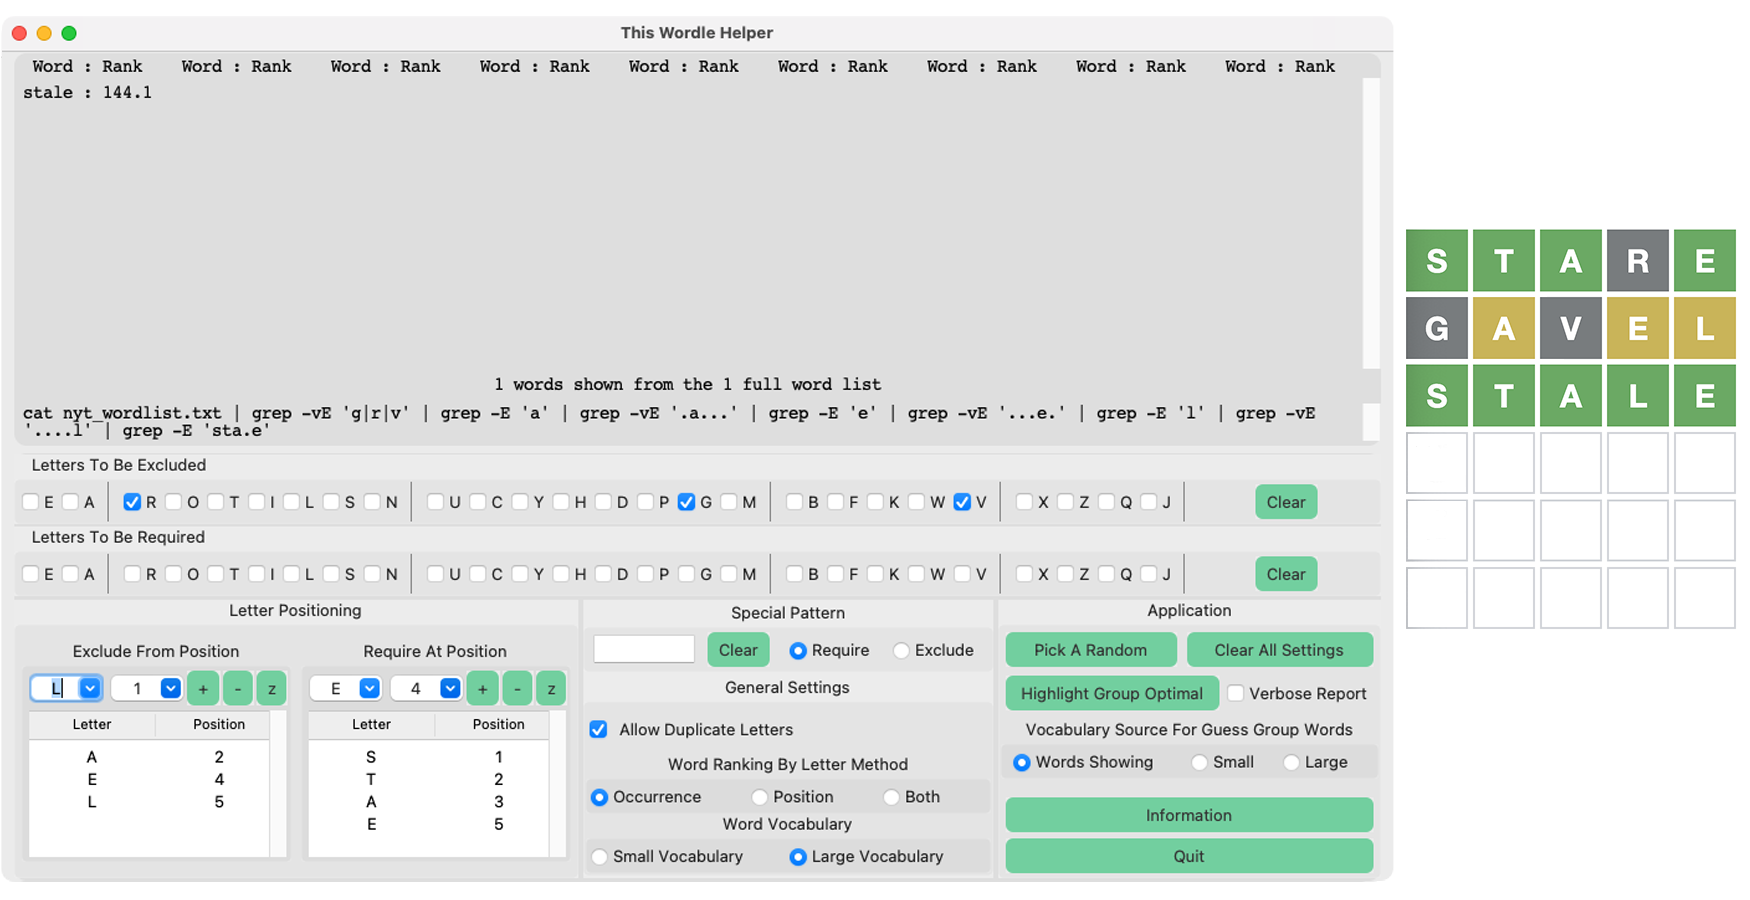
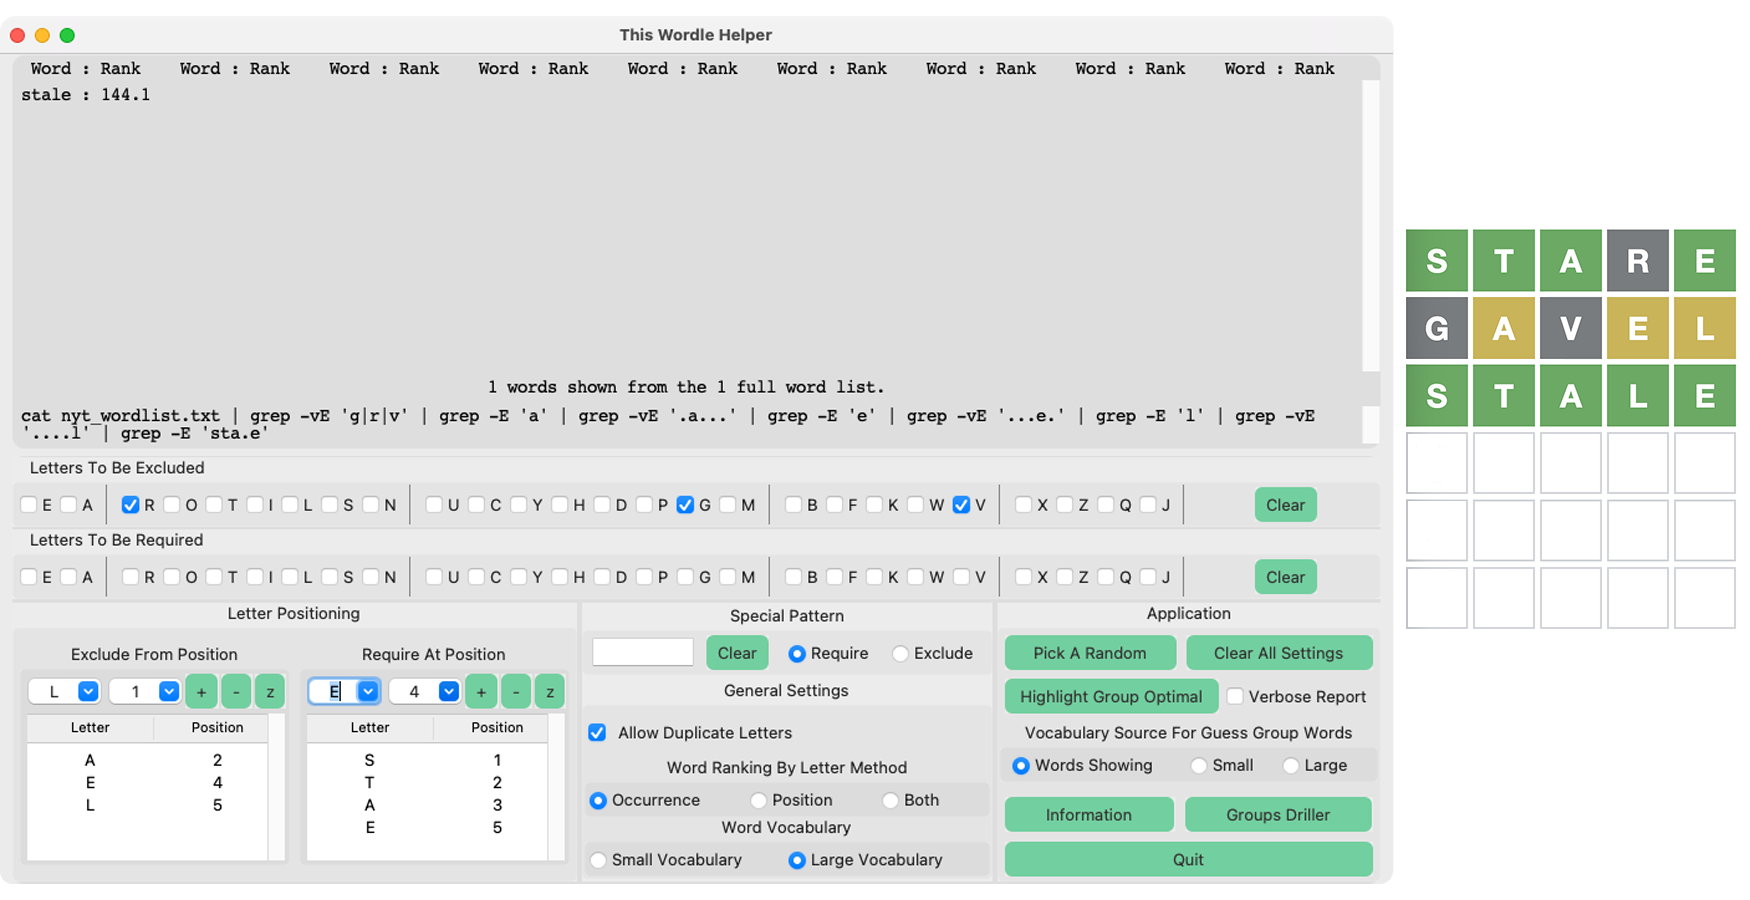
Integrating the groups driller (#13)

diff --git a/groupdrilling.py b/groupdrilling.py
@@ -23,10 +23,12 @@ def process_grp_list(self, g_word_lst: list) -> dict:
     # This is allows the option to group rank from the entire guess list.
     grps_guess_source = self.grps_guess_source.get()
     optimal_group_guesses = {}
+    context = 'Groups Drilling'
     match grps_guess_source:
         case 0:
             optimal_group_guesses = helpers.best_groups_guess_dict(g_word_lst,
-                                                                   self.verbose_grps.get()
+                                                                   self.d_verbose_grps.get(),
+                                                                   context
                                                                    )
 
         case 1:
@@ -38,9 +40,11 @@ def process_grp_list(self, g_word_lst: list) -> dict:
                                               0).get_ranked_results_wrd_lst(True)
             msg1 = 'Small Vocabulary'
             optimal_group_guesses = helpers.extended_best_groups_guess_dict(g_word_lst,
-                                                                            self.verbose_grps.get(),
+                                                                            self.d_verbose_grps.get(),
                                                                             all_targets,
-                                                                            msg1)
+                                                                            msg1,
+                                                                            context
+                                                                            )
         case 2:
             # get the entire possible guess list
             all_targets = helpers.ToolResults(data_path,
@@ -49,16 +53,18 @@ def process_grp_list(self, g_word_lst: list) -> dict:
                                               True, 0).get_ranked_results_wrd_lst(True)
             msg1 = 'Large Vocabulary'
             optimal_group_guesses = helpers.extended_best_groups_guess_dict(g_word_lst,
-                                                                            self.verbose_grps.get(),
+                                                                            self.d_verbose_grps.get(),
                                                                             all_targets,
-                                                                            msg1)
+                                                                            msg1,
+                                                                            context
+                                                                            )
         case _:
             pass
 
     return optimal_group_guesses
 
 
-class GrpsDrillingMain(ctk.CTk):
+class GrpsDrillingMain(ctk.CTkToplevel):
     common_msg = '\n> >  Highlighted words are common to both the entry words and the optimal group guess words.'
     def_msg = 'Paste or write in the words list into the above entry field.' + \
               '\n\nRaw pastes from the This Wordle Helper will be automatically cleaned and converted to ' + \
@@ -117,8 +123,8 @@ class GrpsDrillingMain(ctk.CTk):
         else:
             tkinter.messagebox.showerror(title='Will Not Proceed',
                                          message='Finding groups requires at least three words.'
-                                         '\nFor group of 2, E(G) is 1.5 when the guess is from the list.'
-                                         '\nOtherwise E(G) is 2.'
+                                                 '\nFor group of 2, E(G) is 1.5 when the guess is from the list.'
+                                                 '\nOtherwise E(G) is 2.'
                                          )
             return
 
@@ -221,7 +227,7 @@ class GrpsDrillingMain(ctk.CTk):
         # set the Vars
         self.grp_words_text = tk.StringVar()
         self.grps_guess_source = tk.IntVar(value=0)
-        self.verbose_grps = tk.BooleanVar(value=True)
+        self.d_verbose_grps = tk.BooleanVar(value=True)
 
         # configure style
         style = ttk.Style()
@@ -296,7 +302,7 @@ class GrpsDrillingMain(ctk.CTk):
         # Show Verbose Report checkbox
         self.chk_grp_disp = ttk.Checkbutton(self.grp_lst_ops_frame,
                                             text="Show Verbose Report",
-                                            variable=self.verbose_grps,
+                                            variable=self.d_verbose_grps,
                                             onvalue=True,
                                             offvalue=False
                                             )
@@ -336,11 +342,11 @@ class GrpsDrillingMain(ctk.CTk):
 # end GrpsDrillingMain class
 
 
-def main(args=None):
+def mainloop(args=None):
     drill_app: GrpsDrillingMain = GrpsDrillingMain()
     drill_app.mainloop()
 
 
 # ====================================== main ================================================
 if __name__ == '__main__':
-    main()
+    mainloop()

diff --git a/pywt.py b/pywt.py
@@ -24,10 +24,9 @@ import tkinter.ttk as ttk  # assigns tkinter.ttk stuff to its own ttk
 # namespace so that tk is preserved
 from tkinter import messagebox
 from typing import NoReturn
-
 import customtkinter as ctk
-
 import helpers
+import groupdrilling
 
 ctk.set_appearance_mode("system")  # Modes: system (default), light, dark
 ctk.set_default_color_theme("green")  # Themes: "blue" (standard), "green", "dark-blue"
@@ -188,10 +187,17 @@ class Pywordlemainwindow(ctk.CTk):
         self.pos_x = self.pos5.copy()
         self.sel_rando = False
         self.sel_grpoptimal = False
+        self.grpsdriller_window = None
 
         # configure style
         style = ttk.Style()
         style.theme_use()
+
+        def show_grps_driller() -> NoReturn:
+            if self.grpsdriller_window is None or not self.grpsdriller_window.winfo_exists():
+                self.grpsdriller_window = groupdrilling.GrpsDrillingMain()  # create window if its None or destroyed
+            else:
+                self.grpsdriller_window.focus()  # if window exists focus it
 
         def do_grep() -> NoReturn:
             """Runs a wordletool helper grep instance
@@ -287,10 +293,12 @@ class Pywordlemainwindow(ctk.CTk):
                 # This is allows the option to group rank from the entire guess list.
                 grps_guess_source = self.grps_guess_source.get()
                 optimal_group_guesses = {}
+                context = "Wordle Helper"
                 match grps_guess_source:
                     case 0:
                         optimal_group_guesses = helpers.best_groups_guess_dict(word_list,
-                                                                               self.verbose_grps.get())
+                                                                               self.verbose_grps.get(),
+                                                                               context)
 
                     case 1:
                         # get the entire possible solutions list
@@ -303,7 +311,8 @@ class Pywordlemainwindow(ctk.CTk):
                         optimal_group_guesses = helpers.extended_best_groups_guess_dict(word_list,
                                                                                         self.verbose_grps.get(),
                                                                                         all_targets,
-                                                                                        msg1)
+                                                                                        msg1,
+                                                                                        context)
                     case 2:
                         # get the entire possible guess list
                         all_targets = helpers.ToolResults(data_path, 'nyt_wordlist.txt', letter_rank_file, True, 0) \
@@ -312,7 +321,8 @@ class Pywordlemainwindow(ctk.CTk):
                         optimal_group_guesses = helpers.extended_best_groups_guess_dict(word_list,
                                                                                         self.verbose_grps.get(),
                                                                                         all_targets,
-                                                                                        msg1)
+                                                                                        msg1,
+                                                                                        context)
                     case _:
                         pass
 
@@ -1279,8 +1289,16 @@ class Pywordlemainwindow(ctk.CTk):
         self.bt_Q = ctk.CTkButton(self.admin_frame, text="Quit", width=100, command=self.destroy)
         self.bt_Q.pack(side=tk.BOTTOM, padx=4, pady=2, fill=tk.X)
 
-        self.bt_help = ctk.CTkButton(self.admin_frame, text="Information", width=40, command=self.show_help)
-        self.bt_help.pack(side=tk.BOTTOM, padx=4, pady=3, fill=tk.X)
+        # frame for Information and Grp drill buttons
+        self.bt_grpB_frame = ttk.Frame(self.admin_frame)
+        self.bt_grpB_frame.pack(side=tk.BOTTOM, padx=0, pady=3, fill=tk.X)
+
+        self.bt_help = ctk.CTkButton(self.bt_grpB_frame, text="Information", width=40, command=self.show_help)
+        self.bt_help.pack(side=tk.LEFT, padx=4, pady=3, fill=tk.X, expand=True)
+
+        self.bt_drill = ctk.CTkButton(self.bt_grpB_frame, text="Groups Driller",
+                                      width=40, command=show_grps_driller)
+        self.bt_drill.pack(side=tk.RIGHT, padx=4, pady=3, fill=tk.X, expand=True)
 
         # frame for Clear and Random buttons
         self.bt_grpA_frame = ttk.Frame(self.admin_frame)

diff --git a/helpers.py b/helpers.py
@@ -427,11 +427,12 @@ def groups_stat_summary(best_rank_dict: dict) -> tuple[int, int, int, float, flo
     return grps_qty, min_grp_size, max_grp_size, optimal_rank, max_grp_prob
 
 
-def extended_best_groups_guess_dict(word_lst: list, reporting: bool, all_targets: dict, msg1: str) -> dict:
+def extended_best_groups_guess_dict(word_lst: list, reporting: bool, all_targets: dict, msg1: str, context: str) -> dict:
     """
     Wraps guess word group ranking to return the best
     group rank guesses. Guesses resulting in more groups
     and smaller groups are better guesses.
+    @param context: String used in title so indicate owner
     @param reporting: flag for verbose printing to rptwnd
     @param word_lst: possible guess words
     @param all_targets: vocabulary dictionary
@@ -441,7 +442,7 @@ def extended_best_groups_guess_dict(word_lst: list, reporting: bool, all_targets
     guess_rank_dict = {}
     best_rank_dict = {}
     min_score = len(word_lst)
-    rptwnd = RptWnd()
+    rptwnd = RptWnd(context)
     rptwnd.withdraw()
     if reporting:
         rptwnd.deiconify()
@@ -477,11 +478,12 @@ def extended_best_groups_guess_dict(word_lst: list, reporting: bool, all_targets
     return best_rank_dict
 
 
-def best_groups_guess_dict(word_lst: list, reporting: bool) -> dict:
+def best_groups_guess_dict(word_lst: list, reporting: bool, context: str) -> dict:
     """
     Wraps guess word group ranking to return the best
     group rank guesses. Guesses resulting in more groups
     and smaller groups are better guesses.
+    @param context: String used in title so indicate owner
     @param reporting: flag for verbose printing to rptwnd
     @param word_lst: possible guess words
     @return: dictionary of the best group ranked guesses where
@@ -491,9 +493,8 @@ def best_groups_guess_dict(word_lst: list, reporting: bool) -> dict:
     guess_rank_dict = {}
     best_rank_dict = {}
     min_score = len(word_lst)
-    rptwnd = RptWnd()
+    rptwnd = RptWnd(context)
     rptwnd.withdraw()
-
     if reporting:
         rptwnd.deiconify()
         reporting_header_to_window("Displayed", word_lst, rptwnd)
@@ -544,7 +545,7 @@ def report_footer_summary_header_to_window(msg: str, source_list: any, rptwnd: c
 
 
 def reporting_header_to_window(msg: str, source_list: any, rptwnd: ctk) -> NoReturn:
-    rptl = "Pattern Groups For Guesses From The " + msg + " Words List (" + \
+    rptl = rptwnd.context + " - Pattern Groups For Guesses From The " + msg + " Words List (" + \
            '{0:.0f}'.format(len(source_list)) + ")"
     rptwnd.title(rptl)
     rptl = "> >  " + rptl + "  < <\n"
@@ -846,8 +847,9 @@ class RptWnd(ctk.CTkToplevel):
         self.msg1.highlight_pattern(regex, 'grp', remove_priors=True)
         self.msg1.remove_tag('grp')
 
-    def __init__(self):
+    def __init__(self, context=''):
         super().__init__()
+        self.context = context
         self.resizable(width=True, height=True)
         self.geometry('780x600')
 

diff --git a/README.md b/README.md
@@ -81,11 +81,10 @@ After installing python3 and pip, the following commands entered in a Terminal w
 
 ### Highlight Group Optimal
 
-* **Highlight Group Optimal** identifies from the words in the current **Words Showing**, or in one of the vocabulary sources: **Small** or **Large**, that when used as a guess against the current word list will result in remaining choice lists containing the smallest number of choices ***when that guess is wrong***. In other words, any word you pick from a given list has an even chance of being the solution, but some picks leave you fewer remaining words to choose from, like only one word. It is possible for a word to leave only one word remaining for every which way that word was wrong. You would solve the Wordle in your next guess under that condition. **Highlight Group Optimal** identifies that word.
+* **Highlight Group Optimal** identifies from the words in the current **Words Showing**, or in one of the vocabulary sources: **Small** or **Large**, that when used as a guess against the current **Words Showing** word list will result in remaining choice lists containing the smallest number of choices ***when that guess is wrong***. In other words, any word you pick from a given list has an even chance of being the solution, but some picks leave you fewer remaining words to choose from, like only one word. It is possible for a word to leave only one word remaining for every which way that word was wrong. You would solve the Wordle in your next guess under that condition. **Highlight Group Optimal** identifies that word.
 * Groups are words that share a unique clue pattern. Thus, a group is an abstract that is both the clue pattern and the group of words. A separate window opens to report all the group pattern information when the **Verbose Report** checkbox is checked.
 * Assuming the various settings have not excluded the solution from the current words showing and considering the solution is a random list member, then dividing the list into many small choice groups will on average minimize the number of guess required to narrow down to the solution.
-* The group optimal score is the clue pattern group average size resulting from a guess considered as the solution to the current words showing. The guess word source is an option, but the guess is always applied to the current words showing.
-* The **Lqty/max** value is the maximum found displayed list quantity to guess word's maximum sized group ratio. Higher ratios correspond to smaller expected subsequent guesses for the candidate guess word. It can vary. **Lqty/max** values vary when guess words share the same average clue pattern group size but vary in their maximum clue pattern group size. Refer to the verbose output to see which optimal word has the maximum **Lqty/max** value.
+* The **Lqty/max** value is the maximum found displayed list quantity to guess word's maximum sized group ratio. Higher ratios correspond to smaller expected subsequent guesses for the candidate guess word. It can vary. **Lqty/max** values vary when guess words share the same average clue pattern group size but vary in their maximum clue pattern group size. Refer to the verbose output to see which optimal word has the maximum **Lqty/max** value. 
 * The maximum value the **Lqty/max** ratio can be is the list size. When the ratio is the list size the solution will be the guess after the candidate guess when the candidate guess is not of the list. When the candidate guess is of the list there will be some chance the candidate guess is the solution. The solution will be the guess after the candidate guess when otherwise.  
 * Optimal group analysis should be performed on the total selection list that contains multiple letters because the analysis is for selecting the solution versus guessing for letter discovery.
 
@@ -95,20 +94,19 @@ After installing python3 and pip, the following commands entered in a Terminal w
 
 !['Verbose Window Top Image'](InfoImages/PYWTVerboseGrpsTop.png)
 
-### Groupdrilling
+### Groups Driller
 
 !['Group Drilling Main Window Image'](InfoImages/PYWTGroupDrillingMain.png)
 
-* **Groupdrilling.py** is a utility that performs a groups analysis using the list, small and large vocabulary against any group of words. It is intended for investigating a word group's effective size, in other words how easily a word's group resolves to a single word.
-* Copy a word group from any **Verbose Report** (or a spreadsheet row) and paste it into the **Groupdrilling** entry field. Text that includes rank numbers copied from the Helper words list may also be pasted. Pasted text will be properly formatted into a list and analyzed when pressing the **Process** button. Pressing and releasing the **Return** keyboard key will instead clean and format the entry without starting the analyze process.
+* **Groups Driller** is a side utility that performs a groups analysis using the list, small and large vocabulary against any group of words. It is intended for investigating a word group's effective size, in other words how easily a word's group resolves to a single word.
+* Copy a word group from any **Verbose Report** (or a spreadsheet row) and paste it into the **Groups Driller** entry field. Text that includes rank numbers copied from the Helper words list may also be pasted. Pasted text will be properly formatted into a list and analyzed when pressing the **Process** button. Pressing and releasing the **Return** keyboard key will instead clean and format the entry without starting the analyze process.
 * **Clear 'N Paste** clears the current list entries and pastes the current **Clipboard** to be the entry. The entry is then cleaned up. Whatever words you have copied last get pasted. The **Clipboard** will then be empty. **Clear 'N Paste** will not clear the current entry if the **Clipboard** happens to be empty.
-* With **Groupdrilling.py** running, one leaves the Helper's **Verbose Report** open using its **Find** feature to show a guess's groups. Copy and Paste a group to be further analyzed into the **Groupdrilling.py** entry field. Then press the **Process** button. 
-* **Groupdrilling.py** summarizes the results and also opens a **Verbose Report** identical to the type shown by the Helper. The workflow allows one to leave the Helper's verbose groups window open to navigate to different guess word results that can be then investigated further by pastes into the **Groupdrilling.py**.
+* With **Groups Driller** running, one leaves the Helper's **Verbose Report** open using its **Find** feature to show a guess's groups. Copy and Paste a group to be further analyzed into the **Groups Driller** entry field. Then press the **Process** button. 
+* **Groups Driller** summarizes the results and also opens a **Verbose Report** identical to the type shown by the Helper. The workflow allows one to leave the Helper's verbose groups window open to navigate to different guess word results that can be then investigated further by pastes into the **Group Driller**.
 
 !['Group Drilling Result Window Image'](InfoImages/PYWTGroupDrillingResult.png)
 
-* The **Groupdrilling.py** verbose report window is not being shown in this **README**. It is identical in function and appearance to the **Helper's** verbose report window.  
-* The convenience script **start-groupdrilling.command** may be used to run **Groupdrilling.py**. **start-groupdrilling.command** will need to be made executable as described in **Installing the Wordle helper**.
+* The **Group Driller** verbose report window is not being shown in this **README**. It is identical in function and appearance to the **Helper's** verbose report window.  
 
 ### Wordle Play Strategies
 
